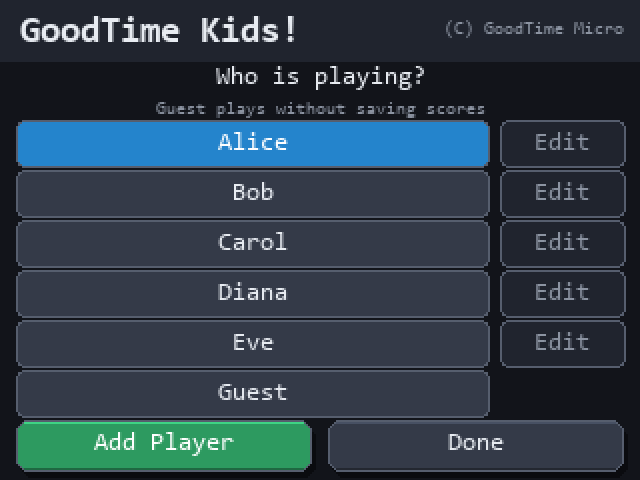
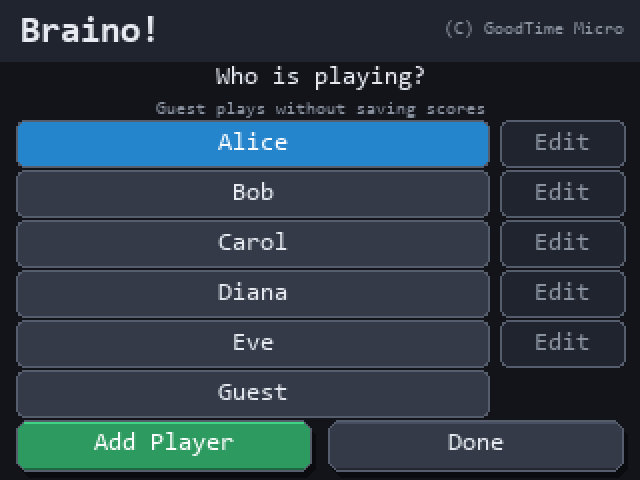
Rename the console to Braino!
The product was GoodTime Kids and is Braino! from here. The owner did not
change: every copyright line still reads GoodTime Micro Company, and NOTICE.md
now records the former name explicitly, because "the product renamed" and "the
company renamed" are two different facts and a half-applied rename is how they
get conflated.

Both of those, plus the version, now live only in include/AppVersion.h. The
product name had been typed out in five places -- launcher, profiles, screen
saver, About and the mock-up generator -- which is precisely the arrangement
that let About fall six games behind the registry. Same rule as the game list:
derive, do not restate. check_docs.py now requires About to read the product
name and copyright as well as the version.

GOODTIME_KIDS_VERSION becomes BRAINO_VERSION, which is the whole of the
code-level rename; GUme stays the repository name and appears in no user-facing
string.

Profiles gets simpler as a side effect. Its portrait header needed a taller bar
with the copyright stacked under the title only because "GoodTime Kids!" at
font 4 was most of a 240px screen. "Braino!" runs to about x=80 and the
copyright right-aligns from x=124, so both orientations share one 30px bar
again and the portrait rows go back to their original pitch.

CONTRIBUTING.md and the framework plan were still claiming 28 games.

Changed region(s): [[0.0312, 0.0312, 0.2812, 0.0938], [0.3125, 0.0312, 0.4688, 0.0938]]

diff --git a/site/index.template.html b/site/index.template.html
@@ -3,8 +3,8 @@
 <head>
 <meta charset="utf-8">
 <meta name="viewport" content="width=device-width, initial-scale=1">
-<title>GoodTime Kids &mdash; {{GAME_COUNT}}-game console firmware for the ESP32</title>
-<meta name="description" content="GoodTime Kids is open ESP32 firmware: {{GAME_COUNT}} educational games for young children on a {{BOARD}} touchscreen board. Flash it from this page.">
+<title>Braino! &mdash; {{GAME_COUNT}}-game console firmware for the ESP32</title>
+<meta name="description" content="Braino! is open ESP32 firmware: {{GAME_COUNT}} educational games for young children on a {{BOARD}} touchscreen board. Flash it from this page.">
 <style>
 :root {
   --bg: #f6f7f9; --panel: #ffffff; --line: #d9dde3; --ink: #14181d;
@@ -153,7 +153,7 @@ footer {
 <div class="wrap">
 
 <header class="hero">
-  <h1>GoodTime Kids</h1>
+  <h1>Braino!</h1>
   <p class="tag">
     A {{GAME_COUNT}}-game educational console for young children, running as open
     firmware on a {{BOARD}} touchscreen board. No accounts, no telemetry, no SD
@@ -343,7 +343,7 @@ footer {
 </section>
 
 <footer>
-  GoodTime Kids v{{VERSION}} &middot; page generated {{BUILT}} &middot;
+  Braino! v{{VERSION}} &middot; page generated {{BUILT}} &middot;
   <a href="{{REPO}}">source on GitHub</a> &middot;
   <a href="{{REPO}}/blob/main/CHANGELOG.md">changelog</a>
 </footer>

diff --git a/src/games/ProfileGame.cpp b/src/games/ProfileGame.cpp
@@ -1,4 +1,5 @@
 #include "ProfileGame.h"
+#include "AppVersion.h"
 #include "engine/AppRegistry.h"
 #include "hal/Board.h"
 
@@ -21,16 +22,18 @@ void ProfileGame::begin(GameHost& host) {
     markFullDirty();
 }
 
-/* The picker header, and the reason it is two different heights.
+/* One header bar, both orientations.
  *
- * Landscape has room to set the copyright against the right edge of the title
- * bar. Portrait does not: at 240px the title alone is most of the width, so the
- * two collided. Portrait therefore gets a taller bar and stacks the copyright
- * under the title, left-aligned with it, which reads as deliberate rather than
- * as a stray line floating on the background below the bar. */
+ * This briefly needed a taller portrait bar with the copyright stacked under
+ * the title, because "GoodTime Kids!" at font 4 was most of a 240px screen and
+ * the two collided. "Braino!" is half the width and the collision is gone: the
+ * title runs to about x=80 in portrait and the copyright right-aligns from
+ * x=124, so a single 30px bar carries both. Rename the product to something
+ * long again and this is the first thing to re-measure -- portrait is the tight
+ * one, and the row pitch below depends on the bar staying 30px. */
 Rect ProfileGame::headerRect(int16_t screenW, int16_t screenH) const {
-    const bool tall = screenH > screenW;
-    return Rect{0, 0, screenW, static_cast<int16_t>(tall ? 40 : 30)};
+    (void)screenH;
+    return Rect{0, 0, screenW, 30};
 }
 
 /* Rows are packed against both ends: the header plus its two lines of prompt
@@ -39,8 +42,8 @@ Rect ProfileGame::headerRect(int16_t screenW, int16_t screenH) const {
  * prompt baselines in render() are one budget -- move either and re-check the
  * last row against the buttons. */
 namespace {
-constexpr int16_t rowsTop(bool tall)   { return tall ? 72 : 60; }
-constexpr int16_t rowsPitch(bool tall) { return tall ? 36 : 25; }
+constexpr int16_t rowsTop(bool tall)   { return tall ? 62 : 60; }
+constexpr int16_t rowsPitch(bool tall) { return tall ? 38 : 25; }
 constexpr int16_t rowsHeight(bool tall){ return tall ? 33 : 23; }
 constexpr int16_t rowsMenuW(bool tall) { return tall ? 54 : 62; }
 }   // namespace
@@ -254,25 +257,19 @@ void ProfileGame::render(GameHost& host) {
 
         tft.setTextColor(Ui::text(), Ui::surface());
         tft.setTextDatum(ML_DATUM);
-        tft.drawString("GoodTime Kids!", 10, 15, 4);
+        tft.drawString(BRAINO_PRODUCT_NAME, 10, 15, 4);
+
+        // The product renamed, the owner did not: the copyright stays theirs.
+        tft.setTextColor(Ui::muted(), Ui::surface());
+        tft.setTextDatum(MR_DATUM);
+        tft.drawString(BRAINO_COPYRIGHT_SHORT, W - 8, 15, 1);
 
         /* Both lines below sit on the background between the header and the
          * first row. They used to overlap each other by a pixel, and in
          * portrait the guest hint ran straight through the top row -- font 2 is
          * 16px tall and font 1 is 8, so the baselines have to be spaced for the
          * font, not eyeballed. Keep the last line clear of rowsTop(). */
-        tft.setTextColor(Ui::muted(), Ui::surface());
-        if (tall) {
-            // Portrait: stacked under the title, inside the taller header bar.
-            tft.setTextDatum(ML_DATUM);
-            tft.drawString("(C) GoodTime Micro", 10, 34, 1);
-        } else {
-            // Landscape: the title leaves the right end of the bar free.
-            tft.setTextDatum(MR_DATUM);
-            tft.drawString("(C) GoodTime Micro", W - 8, 15, 1);
-        }
-
-        const int16_t promptY = static_cast<int16_t>(tall ? 44 : 32);
+        const int16_t promptY = 32;
         tft.setTextColor(Ui::text(), Ui::bg());
         tft.setTextDatum(TC_DATUM);
         tft.drawString("Who is playing?", W / 2, promptY, 2);

diff --git a/tools/gen_screens.py b/tools/gen_screens.py
@@ -34,6 +34,11 @@ if HAVE_ART:
 else:
     IMAGES = {}
 
+# Product identity, mirroring include/AppVersion.h. The mock-ups are the
+# fifth place the name used to be typed out; keep it in one name here too.
+PRODUCT = "Braino!"
+COPYRIGHT_SHORT = "(C) GoodTime Micro"
+
 W, H = 320, 240
 BG, SURFACE, PANEL = (18, 20, 26), (32, 36, 46), (52, 58, 72)
 TEXT, MUTED, OUTLINE = (232, 236, 242), (140, 148, 162), (86, 94, 110)
@@ -373,8 +378,8 @@ def launcher_wide():
     im, d = blank(); d.rectangle([0, 0, W - 1, 47], fill=SURFACE)
     d.line([(0, 0), (W, 0)], fill=shade(SURFACE, 145))
     d.line([(0, 47), (W, 47)], fill=shade(SURFACE, 60))
-    d.text((10, 5), "GoodTime Kids!", font=F4, fill=TEXT)
-    d.text((10, 34), "(C) GoodTime Micro", font=F1, fill=MUTED)
+    d.text((10, 5), PRODUCT, font=F4, fill=TEXT)
+    d.text((10, 34), COPYRIGHT_SHORT, font=F1, fill=MUTED)
     # Profile name: plain text on the byline row, no button chrome.
     d.text((124, 34), "Ava", font=F1, fill=TEXT)
     t = "12:41 AM"
@@ -405,7 +410,7 @@ def launcher_wide():
 def launcher_tall():
     im = Image.new("RGB", (240, 320), BG); d = ImageDraw.Draw(im)
     d.rectangle([0, 0, 239, 77], fill=SURFACE)
-    t = "GoodTime Kids!"
+    t = PRODUCT
     d.text((120 - d.textlength(t, font=F4) / 2, 6), t, font=F4, fill=TEXT)
     d.line([(8, 30), (232, 30)], fill=shade(SURFACE, 150))
     d.text((8, 36), "Ava", font=F2, fill=TEXT)
@@ -1231,8 +1236,8 @@ def profiles_pick():
     im = Image.new("RGB", (W, H), BG); d = ImageDraw.Draw(im)
     # Header band
     d.rectangle([0, 0, W, 30], fill=SURFACE)
-    d.text((10, 15 - 9), "GoodTime Kids!", font=F4, fill=TEXT)
-    d.text((W - 8 - d.textlength("(C) GoodTime Micro", font=F1), 15 - 5), "(C) GoodTime Micro", font=F1, fill=MUTED)
+    d.text((10, 15 - 9), PRODUCT, font=F4, fill=TEXT)
+    d.text((W - 8 - d.textlength(COPYRIGHT_SHORT, font=F1), 15 - 5), COPYRIGHT_SHORT, font=F1, fill=MUTED)
     # "Who is playing?" and guest hint. Baselines come from ProfileGame::render:
     # promptY = 32 in landscape, and the hint sits 18px below it.
     d.text((W / 2 - d.textlength("Who is playing?", font=F2) / 2, 32), "Who is playing?", font=F2, fill=TEXT)

diff --git a/src/games/AboutGame.cpp b/src/games/AboutGame.cpp
@@ -74,17 +74,22 @@ void AboutGame::update(GameHost& host, const TouchPoint& touch) {
     }
 }
 
+/* The product name and the copyright are two separate facts here, and the
+ * intro page is the one screen an owner reads to learn either. Braino! is the
+ * console; GoodTime Micro Company still owns it. Both come from AppVersion.h --
+ * this page must not be where either gets re-typed. */
 void AboutGame::renderIntro(Ui::Renderer& tft) {
-    drawLine(tft, 48, "(C) GoodTime Micro Company", 2);
+    drawLine(tft, 48, BRAINO_PRODUCT_NAME, 2);
     tft.setTextColor(Ui::muted(), Ui::surface());
-    drawLine(tft, 72, String("Educational games for the ") + BOARD_NAME + ".", 1);
-    drawLine(tft, 86, "Copyright 2026.", 1);
+    drawLine(tft, 70, BRAINO_COPYRIGHT, 1);
+    drawLine(tft, 84, String("Educational games for the ") + BOARD_NAME + ".", 1);
+    drawLine(tft, 98, "Copyright 2026.", 1);
     tft.setTextColor(Ui::text(), Ui::surface());
-    drawLine(tft, 108, String("Version ") + GOODTIME_KIDS_VERSION, 2);
-    drawLine(tft, 134, String(playableAppCount()) + " games built in", 2);
+    drawLine(tft, 116, String("Version ") + BRAINO_VERSION, 2);
+    drawLine(tft, 140, String(playableAppCount()) + " games built in", 2);
     tft.setTextColor(Ui::muted(), Ui::surface());
-    drawLine(tft, 158, "195 flags and 50 US states,", 1);
-    drawLine(tft, 172, "all stored on the device.", 1);
+    drawLine(tft, 162, "195 flags and 50 US states,", 1);
+    drawLine(tft, 176, "all stored on the device.", 1);
     drawLine(tft, 190, "Up to 5 children, plus a Guest.", 1);
 }
 

diff --git a/src/engine/AppRuntimeLauncher.cpp b/src/engine/AppRuntimeLauncher.cpp
@@ -1,6 +1,7 @@
 #include "AppRuntime.h"
 
 #include <string.h>
+#include "AppVersion.h"
 #include "hal/BleBeacon.h"
 #include "hal/Clock.h"
 #include "hal/Watchdog.h"
@@ -140,7 +141,7 @@ void LauncherGame::render(GameHost& host) {
 
     if (tall) {
         tft.setTextDatum(MC_DATUM);
-        tft.drawString("GoodTime Kids!", static_cast<int16_t>(lW / 2), 17, 4);
+        tft.drawString(BRAINO_PRODUCT_NAME, static_cast<int16_t>(lW / 2), 17, 4);
         tft.setTextDatum(ML_DATUM);
         tft.setTextColor(Ui::text(), Ui::surface());
         tft.drawString(Ui::fitted(tft, board.profileName(board.activeProfile()),
@@ -162,9 +163,9 @@ void LauncherGame::render(GameHost& host) {
         }
         tft.drawFastHLine(8, 30, static_cast<int16_t>(lW - 16), Ui::shade(Ui::surface(), 150));
     } else {
-        tft.drawString("GoodTime Kids!", 10, 16, 4);
+        tft.drawString(BRAINO_PRODUCT_NAME, 10, 16, 4);
         tft.setTextColor(Ui::muted(), Ui::surface());
-        tft.drawString("(C) GoodTime Micro", 10, 38, 1);
+        tft.drawString(BRAINO_COPYRIGHT_SHORT, 10, 38, 1);
         tft.setTextDatum(ML_DATUM);
         tft.setTextColor(Ui::text(), Ui::surface());
         tft.drawString(Ui::fitted(tft, board.profileName(board.activeProfile()),

diff --git a/include/AppVersion.h b/include/AppVersion.h
@@ -1,3 +1,23 @@
 #pragma once
 
-#define GOODTIME_KIDS_VERSION "4.0.0"
+/* Product identity, spelled once.
+ *
+ * The console is **Braino!**. The company that owns it is **GoodTime Micro
+ * Company**, and the copyright line stays in the company's name -- the product
+ * was renamed, the owner did not change. Those are two different facts and
+ * conflating them is how a rename ends up half-applied.
+ *
+ * Nothing else in the firmware may spell either of them. The product name was
+ * typed out in five places before this existed -- launcher, profiles, screen
+ * saver, About and the mock-up generator -- which is exactly the shape of the
+ * drift that left About six games out of date. Same rule as the game list:
+ * derive, do not restate.
+ *
+ * Two copyright forms exist because two of those screens are tight on width.
+ * The short one drops "Company" and is for headers measured to the pixel; the
+ * full one is for About and the screen saver, which have the room. */
+#define BRAINO_VERSION          "4.0.0"
+#define BRAINO_PRODUCT_NAME     "Braino!"
+#define BRAINO_COMPANY          "GoodTime Micro Company"
+#define BRAINO_COPYRIGHT        "(C) GoodTime Micro Company"
+#define BRAINO_COPYRIGHT_SHORT  "(C) GoodTime Micro"

diff --git a/tools/check_docs.py b/tools/check_docs.py
@@ -36,9 +36,9 @@ def fail(problems, message):
 def check_version(problems):
     """README's stated release must match the firmware constant."""
     header = read("include", "AppVersion.h")
-    match = re.search(r'GOODTIME_KIDS_VERSION\s+"([^"]+)"', header)
+    match = re.search(r'BRAINO_VERSION\s+"([^"]+)"', header)
     if not match:
-        fail(problems, "AppVersion.h: GOODTIME_KIDS_VERSION not found")
+        fail(problems, "AppVersion.h: BRAINO_VERSION not found")
         return
     version = match.group(1)
 
@@ -125,7 +125,8 @@ def check_about_is_derived(problems):
     CLAUDE.md; this catches the specific regression of hardcoding again.
     """
     about = read("src", "games", "AboutGame.cpp")
-    for symbol in ("playableAppAt", "playableAppCount", "GOODTIME_KIDS_VERSION",
+    for symbol in ("playableAppAt", "playableAppCount", "BRAINO_VERSION",
+                   "BRAINO_PRODUCT_NAME", "BRAINO_COPYRIGHT",
                    "BOARD_NAME", "BleBeacon::active"):
         if symbol not in about:
             fail(problems, "AboutGame.cpp no longer reads %s -- About is "

diff --git a/src/engine/AppRuntimeScreenSaver.cpp b/src/engine/AppRuntimeScreenSaver.cpp
@@ -1,6 +1,7 @@
 #include "AppRuntime.h"
 
 #include <math.h>
+#include "AppVersion.h"
 #include "hal/Watchdog.h"
 
 void KidsPlatformApp::enterScreenSaver() {
@@ -185,9 +186,9 @@ void KidsPlatformApp::renderScreenSaver() {
     }
     tft.setTextDatum(MC_DATUM);
     tft.setTextColor(Ui::rgb(120, 128, 150), TFT_BLACK);
-    tft.drawString("GoodTime Micro", effW / 2, static_cast<int16_t>(cy - 10), 4);
+    tft.drawString(BRAINO_PRODUCT_NAME, effW / 2, static_cast<int16_t>(cy - 10), 4);
     tft.setTextColor(Ui::rgb(70, 76, 92), TFT_BLACK);
-    tft.drawString("(C) GoodTime Micro Company", effW / 2, static_cast<int16_t>(cy + 14), 1);
+    tft.drawString(BRAINO_COPYRIGHT, effW / 2, static_cast<int16_t>(cy + 14), 1);
     tft.setTextDatum(TL_DATUM);
     ssav_textCy_ = cy;
 

diff --git a/tools/gen_site.py b/tools/gen_site.py
@@ -60,8 +60,8 @@ PARTS = (
 VARIANTS = (
     {
         "env": "app",
-        "label": "GoodTime Kids (the games)",
-        "name": "GoodTime Kids",
+        "label": "Braino! (the games)",
+        "name": "Braino!",
         "note": "The full console: {count} games, profiles, scores, settings, "
                 "Wi-Fi clock and the BLE beacon.",
     },
@@ -235,7 +235,7 @@ def find(pattern, text, what, flags=0):
 
 
 def version():
-    return find(r'GOODTIME_KIDS_VERSION\s+"([^"]+)"',
+    return find(r'BRAINO_VERSION\s+"([^"]+)"',
                 read("include", "AppVersion.h"), "the version").group(1)
 
 

diff --git a/src/games/SystemInfoGame.cpp b/src/games/SystemInfoGame.cpp
@@ -269,7 +269,7 @@ void SystemInfoGame::buildBoardRows(GameHost& host) {
     rows_.addRow("Chip", String(ESP.getChipModel()) + " r" + ESP.getChipRevision());
     rows_.addRow("CPU", String(ESP.getChipCores()) + "x " + ESP.getCpuFreqMHz() + " MHz");
     rows_.addRow("SDK", ESP.getSdkVersion());
-    rows_.addRow("Firmware", GOODTIME_KIDS_VERSION);
+    rows_.addRow("Firmware", BRAINO_VERSION);
     rows_.addRow("Reset", Watchdog::resetReasonText(static_cast<int>(esp_reset_reason())));
     rows_.addRow("Uptime", uptimeText(millis() / 1000UL));
 

diff --git a/tools/gen_country_facts.py b/tools/gen_country_facts.py
@@ -1,5 +1,5 @@
 """
-Generate src/games/CountryData.cpp for GoodTime Kids.
+Generate src/games/CountryData.cpp for Braino!.
 
     python tools/gen_country_facts.py
 

diff --git a/CHANGELOG.md b/CHANGELOG.md
@@ -2,6 +2,16 @@
 
 ## Unreleased
 
+### Changed
+
+- **The console is now Braino!** The product was GoodTime Kids; it is Braino!
+  from this release. The owner did not change: every copyright line still reads
+  GoodTime Micro Company, and the trademark notice records the old name so the
+  two facts cannot be conflated later. The name and both copyright forms now
+  live only in `include/AppVersion.h` -- they had been typed out in five places,
+  which is the same shape of drift that once left About six games behind.
+  `GOODTIME_KIDS_VERSION` is now `BRAINO_VERSION`.
+
 ### Added
 
 - **Dice.** Pick one, two or three dice and throw them; the faces tumble for a
@@ -36,9 +46,8 @@
 - **Profiles.** "Who is playing?" and the guest hint overlapped each other in
   both orientations, and in portrait the hint ran straight through the first
   profile row. In portrait the copyright line also collided with the title,
-  which is too wide at 240px to share that line; it now sits under the title
-  inside a taller header bar. The row pitch moved with it, so six rows still
-  clear the Add / Done buttons.
+  which is too wide at 240px to share that line. "Braino!" is half the width, so
+  both orientations went back to sharing one 30px header bar.
 
 - The GitHub Pages installer now showcases every generated still for the games,
   launcher, settings, profiles, Wi-Fi/time, scores, About, System Info and the
